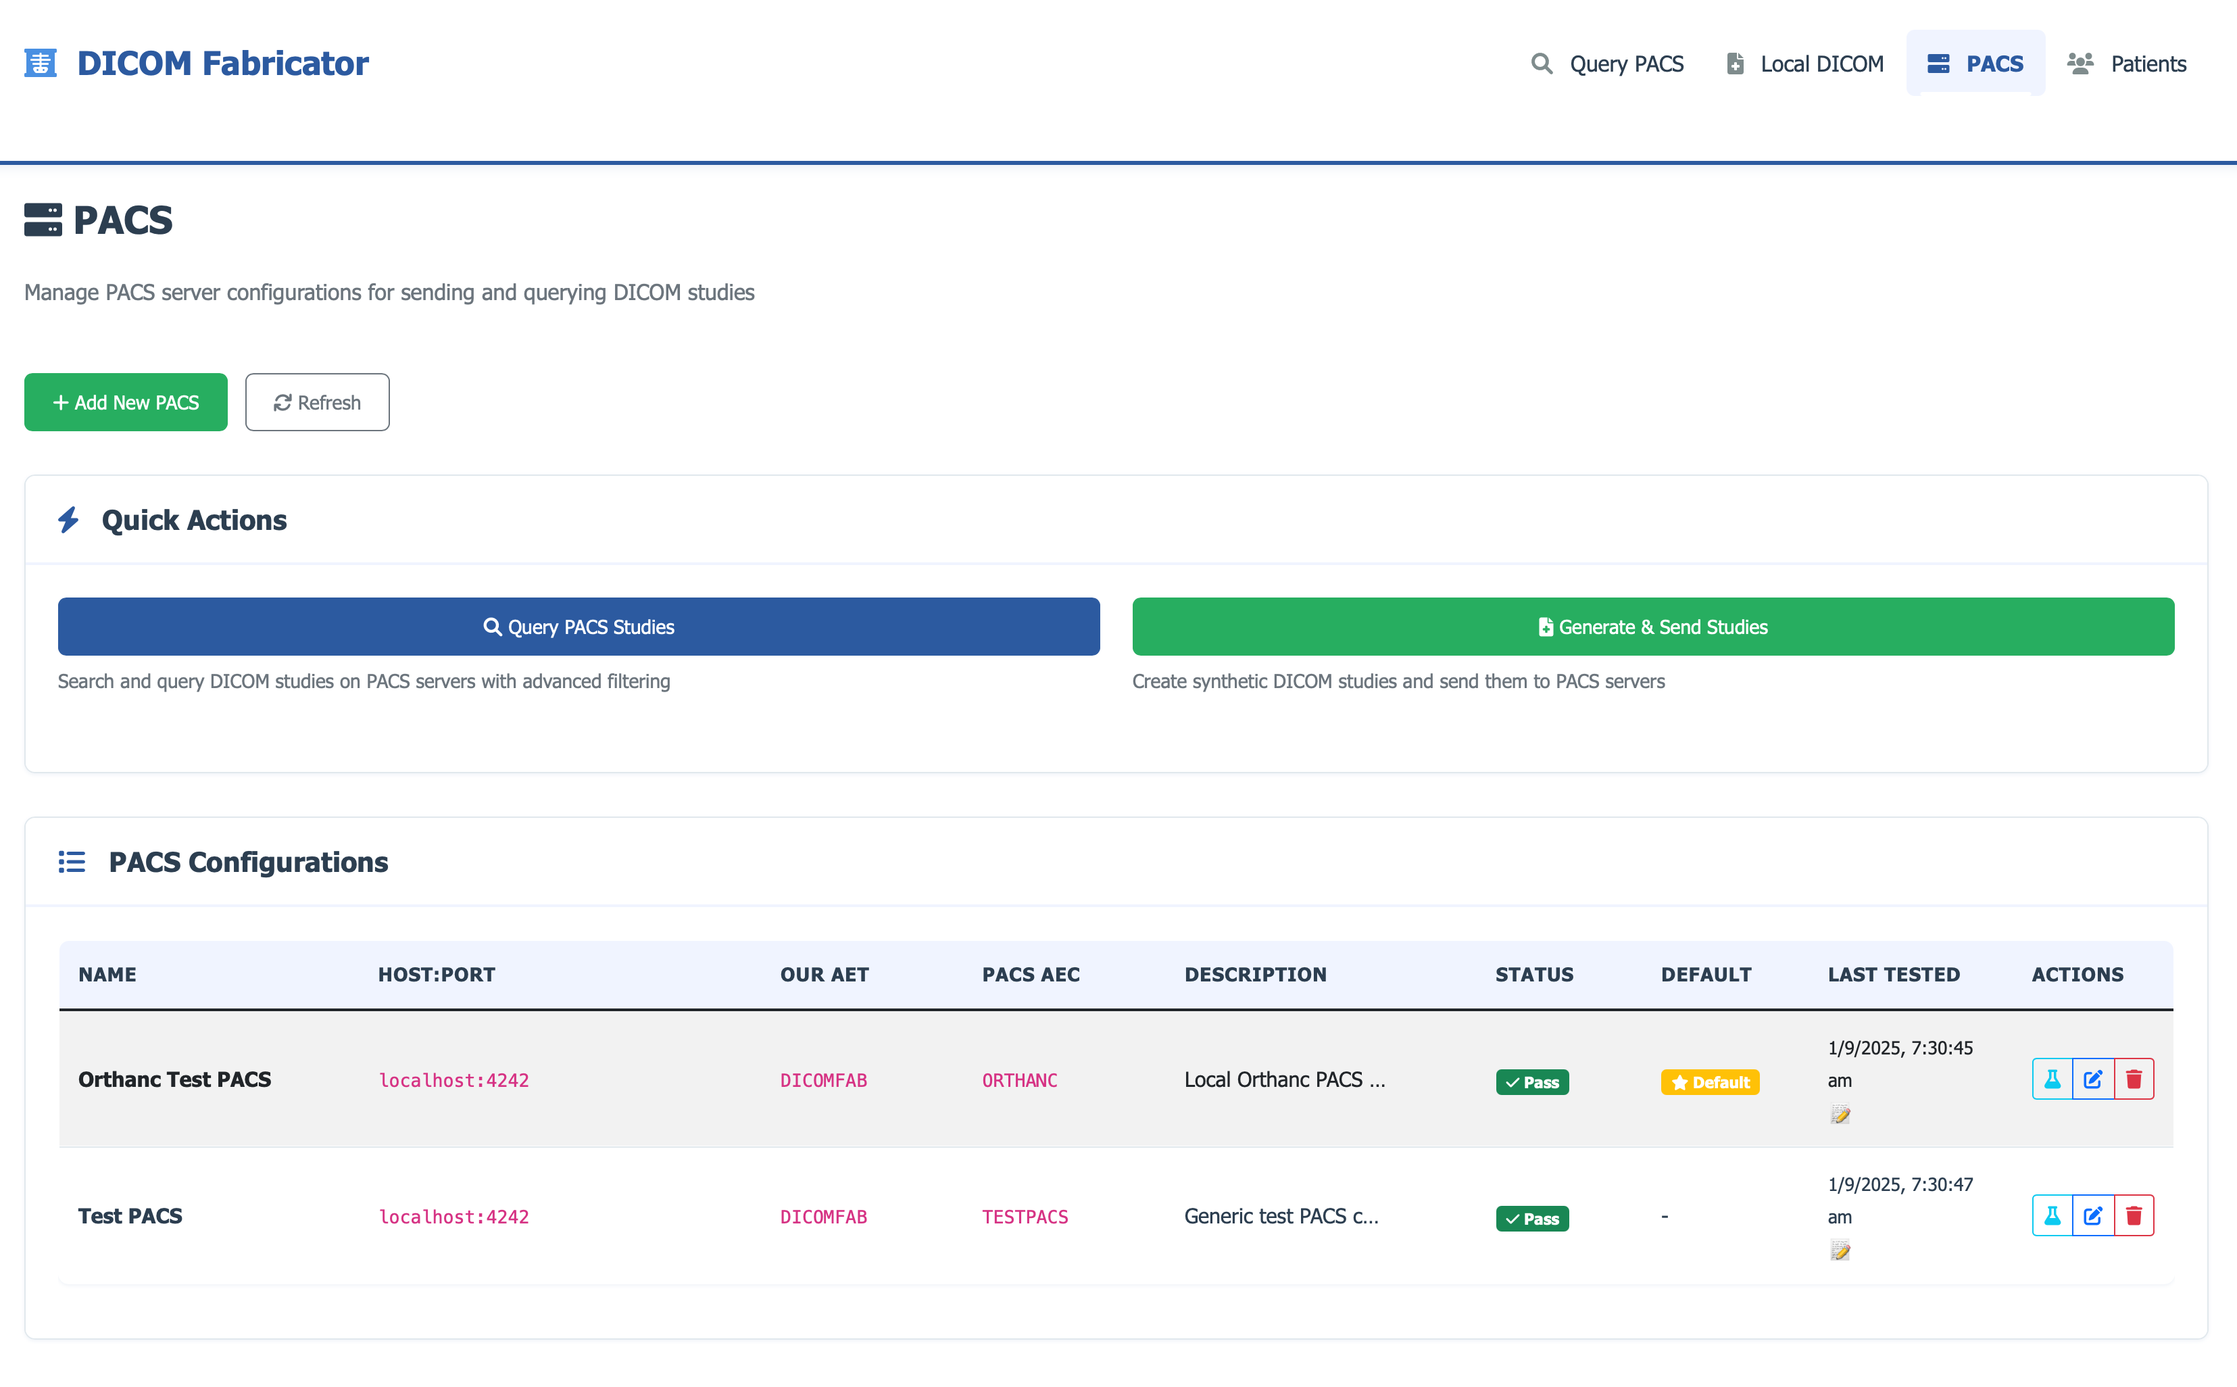
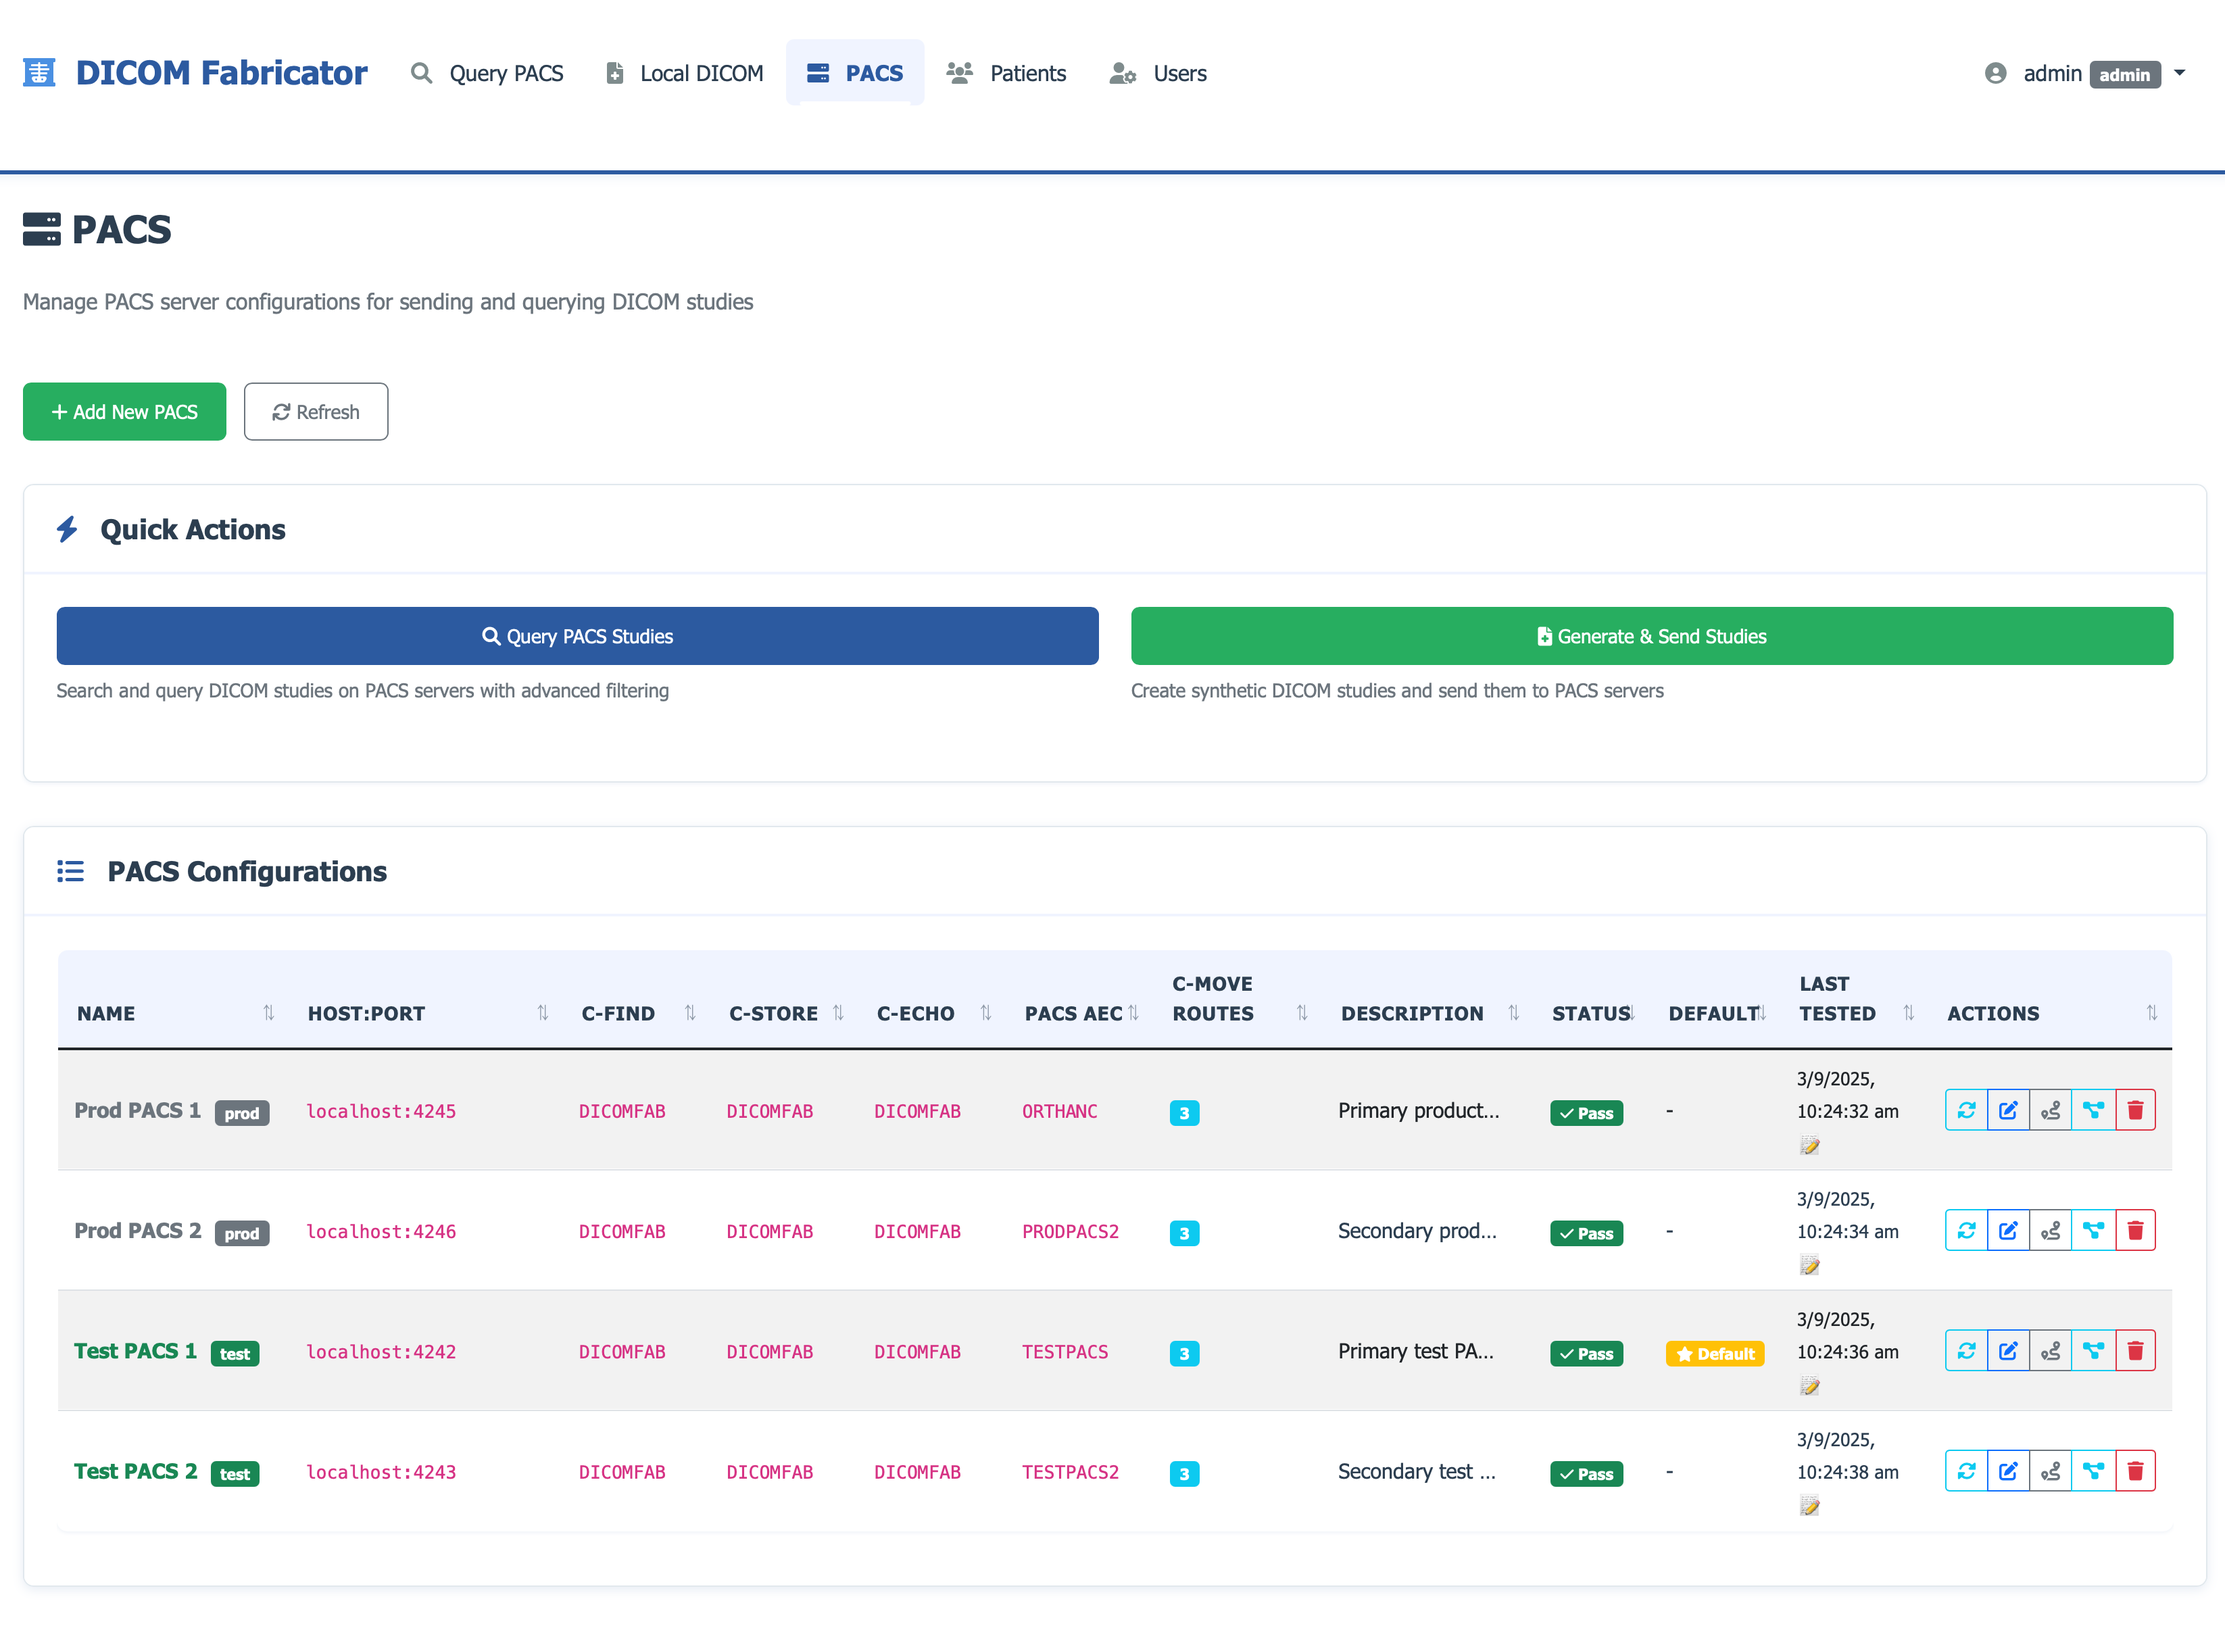
docs: Add PACS Context Diagram and management screenshots
## Documentation Updates
- Add PACS Context Diagram screenshot (pacs-context-diag.png)
- Add PACS management interface screenshots
- Add C-MOVE AE configuration screenshot (pacs_config_cmoveae.png)
- Update feature overview documentation
- Update README.md with latest information

## Screenshots Added
- PACS Context Diagram showing inter-PACS relationships
- PACS management interface with C-MOVE routing
- C-MOVE AE title configuration interface
- Legacy PACS management interface for comparison

These screenshots provide visual documentation of the PACS configuration
and management features implemented in the authentication and permissions
system.

diff --git a/docs/feature_overview.md b/docs/feature_overview.md
@@ -77,6 +77,8 @@ Manage PACS server connections and perform DICOM operations.
 
 ![PACS Management](images/pacs-management.png)
 
+![Pacs Config](images/pacs_config_cmoveae.png)
+
 **Common Activities:**
 - **Server Configuration**: Add and configure PACS server connections
 - **Connectivity Testing**: Verify PACS server accessibility

diff --git a/README.md b/README.md
@@ -6,6 +6,8 @@ Note: This tool works in test, but exercise caution with live/prod PACS and test
 
 ![Dashboard Screenshot](docs/images/dashboard.png)
 
+![PACS Context](docs/images/pacs-context-diag.png)
+
 
 *For a detailed visual overview of features and common activities, see [Feature Overview](docs/feature_overview.md)*
 
